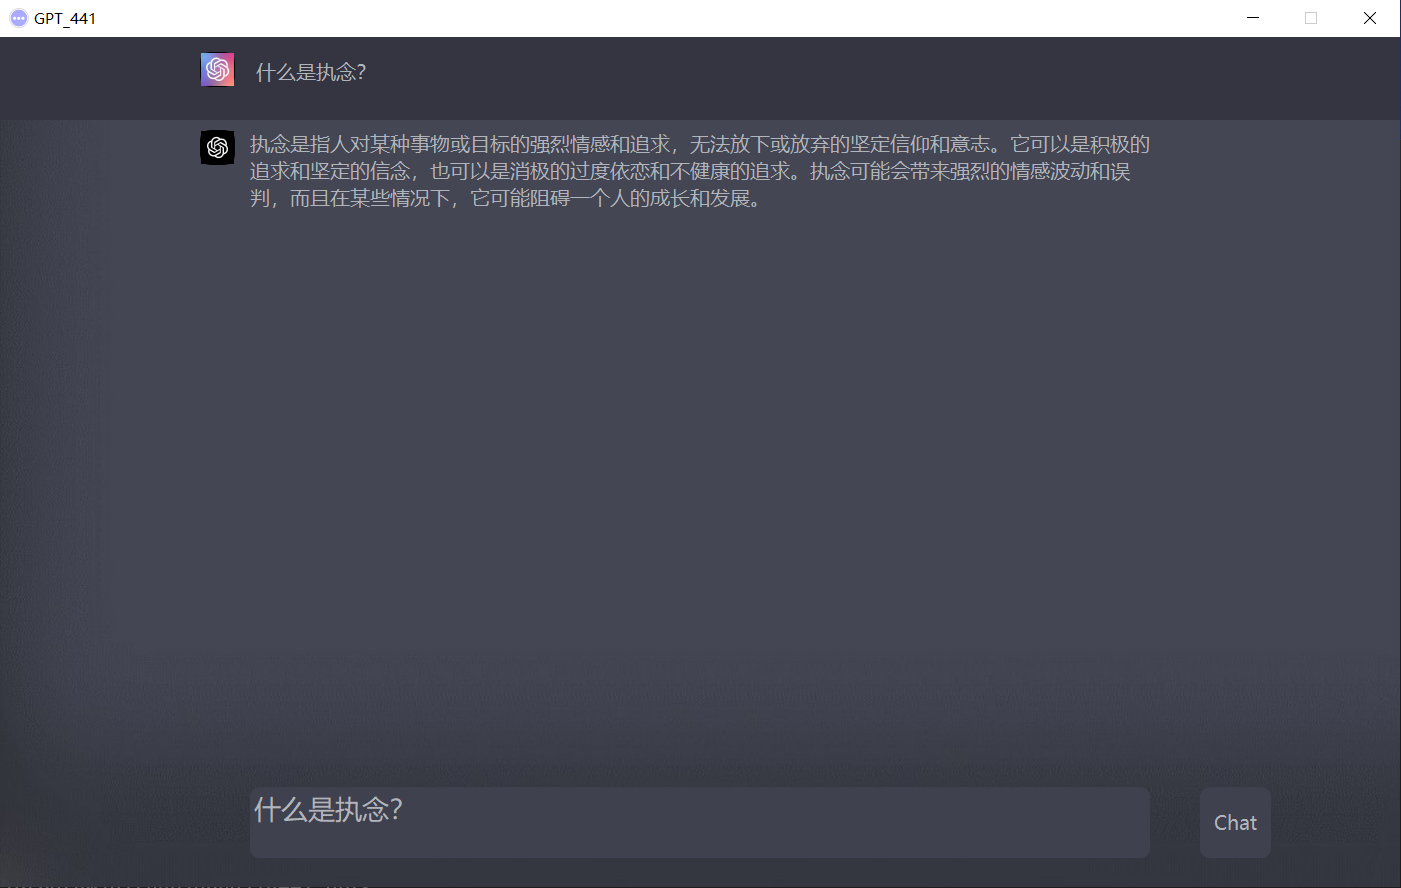
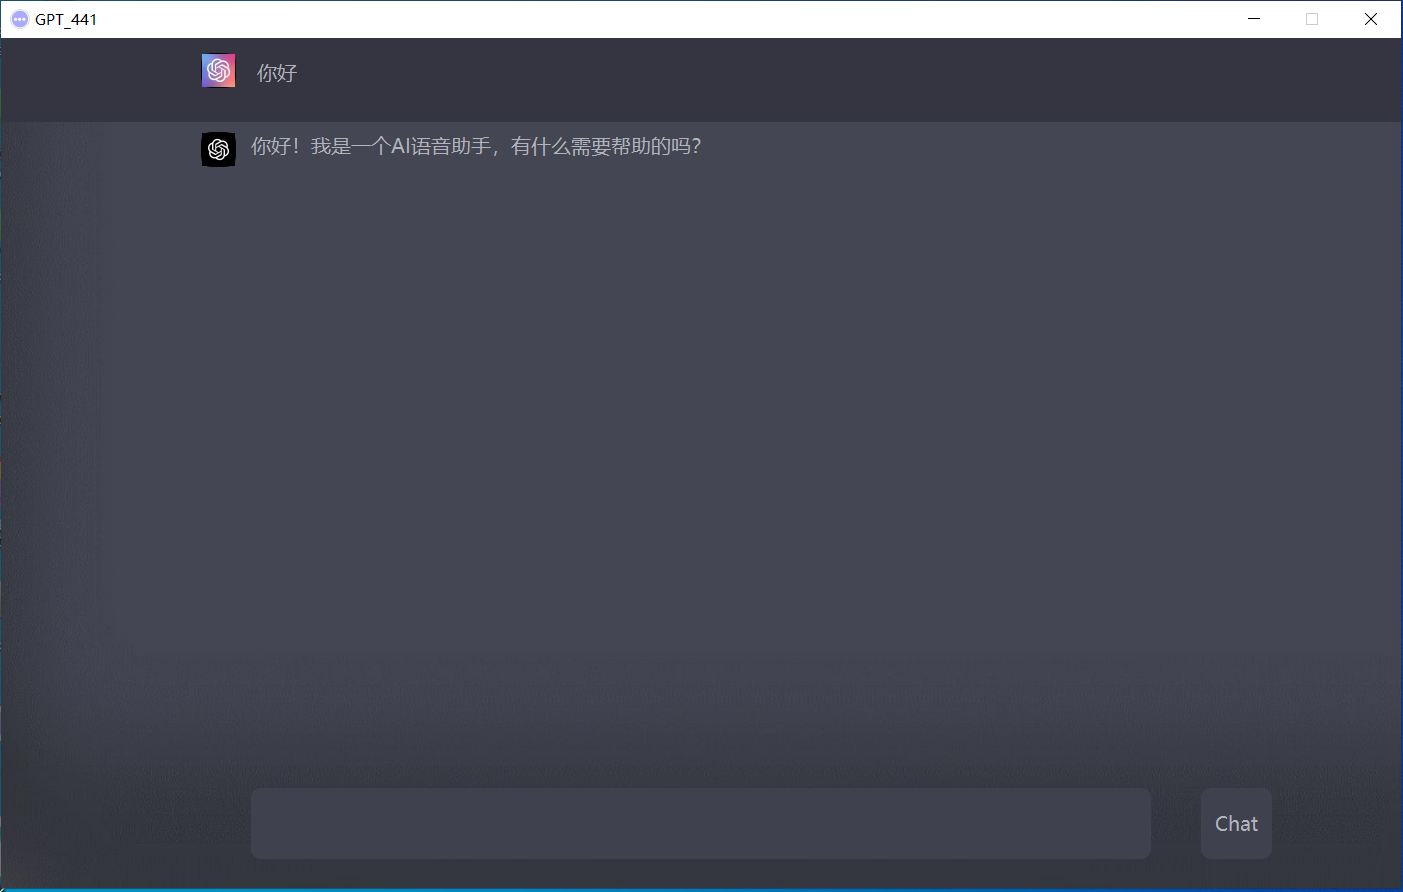
更换了演示图片，新增README的描述

diff --git a/README.md b/README.md
@@ -5,8 +5,10 @@
 v2.1反馈：
 1. 希望回车直接发送消息
 2. 一次只能显示一个回答
-3. (已解决)响应速度慢，响应速度不及V1.0
-4. (已解决)出现V1.0可以回答，V2.1不能回答的情况
+3. 搜索回答时，有时不能输入
+4. 复制输出框的内容时，有时选择不上
+5. (已解决)响应速度慢，响应速度不及V1.0
+6. (已解决)出现V1.0可以回答，V2.1不能回答的情况
 
 v2.0回复：
 1. (遗留)单次只能显示一个回答
